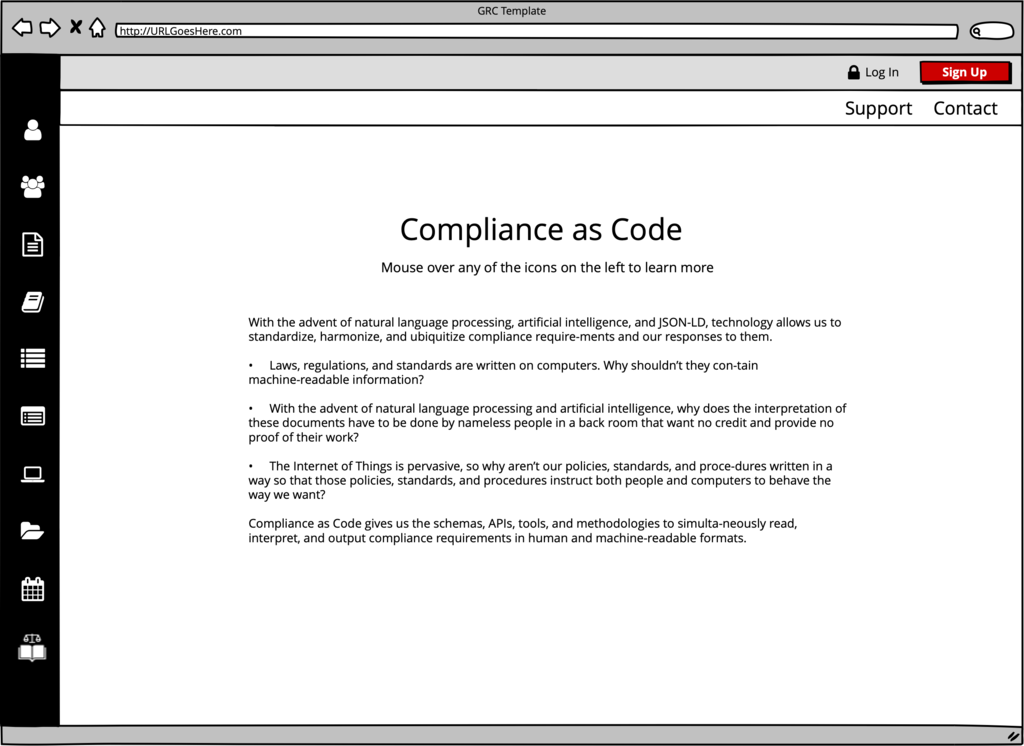
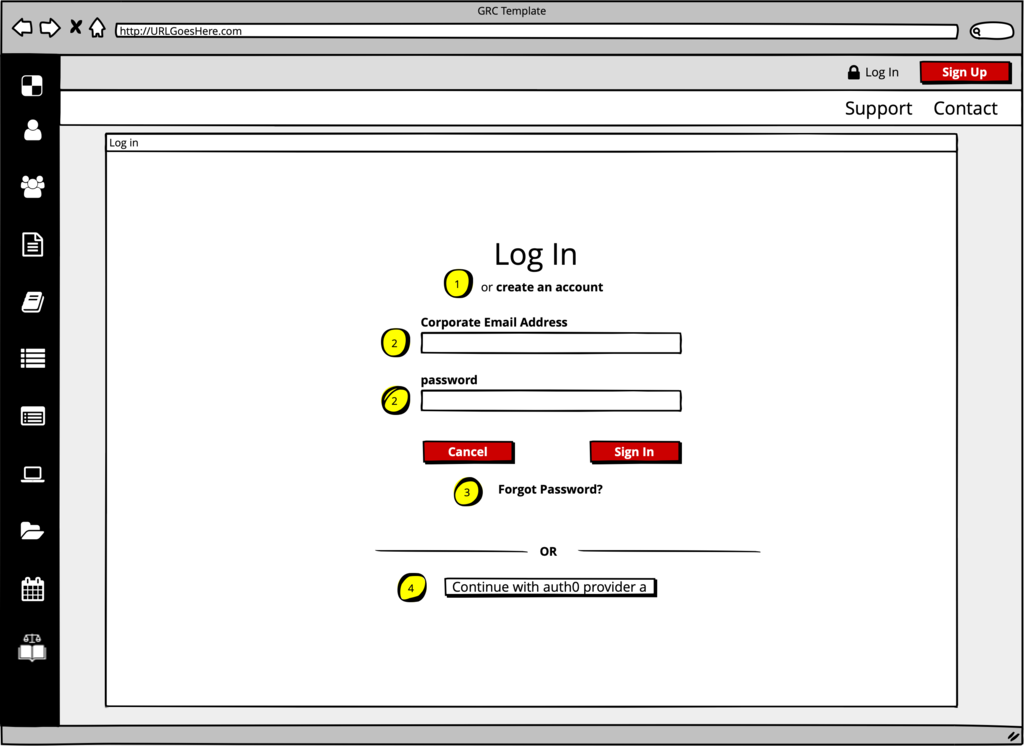
GitBook: [master] 50 pages and 4 assets modified

diff --git a/the-elements-of-compliance-for-developers/introduction/log-in.md b/the-elements-of-compliance-for-developers/introduction/log-in.md
@@ -1,0 +1,31 @@
+# Log In
+
+The public sharing for these wireframes is:
+
+[https://balsamiq.cloud/srj76i4/ptmjb2b](https://balsamiq.cloud/srj76i4/ptmjb2b)
+
+While these are designed here in Balsamiq, we highly suggest that the components be translated into Material-UI React components, found here: [https://react-material-kit.devias.io/authentication/login-unguarded](https://react-material-kit.devias.io/authentication/login-unguarded).
+
+The scope of this portion of the project is to allow known individual to sign in to the system using either an email/password combination or an Auth0 provider.
+
+The layouts expressed in this documentation are for _communication purposes only_. They are not meant to provide branding guidance or even an official look-and-feel. They exist merely to convey the technical aspects of the project. _Real_ designers will create something much more effective.
+
+The sign in screens are presented as modal dialogs and are accessed from the home page.
+
+## Log In
+
+Log In information is a combination of two screens, log in and forgot password.
+
+![Log In dialog](../../.gitbook/assets/0%20%2811%29.png)
+
+1. We present a link within the sign in dialog to allow the user to _create an account_ if necessary.
+2. The user’s sign-in, if manual, is through a _corporate_ e-mail address and associated password.
+3. We present a _forgot password_ link for the email/password combination.
+4. If the account has this option enabled, the user can sign in through an Auth0 provider.
+
+### Forgot Password
+
+If the user cannot remember their password, they can click a link, provide their email address, and _if that address exists_, can be sent an email to reset their password.
+
+![Password recovery](../../.gitbook/assets/1%20%2810%29.png)
+

diff --git a/the-elements-of-compliance-for-developers/introduction/home-page.md b/the-elements-of-compliance-for-developers/introduction/home-page.md
@@ -10,11 +10,11 @@ While these are designed here in Balsamiq, we highly suggest that the components
 
 We don’t have much for the design of the home page, other than that it should have some basic information about Compliance as Code, how to contact members of the organization, how to get support, and login/signup links.
 
-![Home page](../../.gitbook/assets/0%20%2811%29.png)
+![Home page](../../.gitbook/assets/0%20%2812%29.png)
 
 ### More Info
 
 Somehow we should communicate to those _not_ signed up, what all of the logos mean and how much _depth of information and assistance_ there is on the site. One way to possibly do this would be to have a roll-over of information available for each icon, as shown below.
 
-![More info](../../.gitbook/assets/1%20%2810%29.png)
+![More info](../../.gitbook/assets/1%20%2811%29.png)
 

diff --git a/SUMMARY.md b/SUMMARY.md
@@ -56,6 +56,7 @@
 * [Sample Application\(s\)](the-elements-of-compliance-for-developers/introduction/README.md)
   * [The Shell application](the-elements-of-compliance-for-developers/introduction/the-shell-application.md)
   * [Home Page](the-elements-of-compliance-for-developers/introduction/home-page.md)
+  * [Log In](the-elements-of-compliance-for-developers/introduction/log-in.md)
   * [Initial Sign-up sequence](the-elements-of-compliance-for-developers/introduction/initial-sign-up-sequence/README.md)
     * [Completing the Sign-up](the-elements-of-compliance-for-developers/introduction/initial-sign-up-sequence/completing-the-sign-up.md)
   * [Managing Staff](the-elements-of-compliance-for-developers/introduction/managing-staff.md)

diff --git a/the-elements-of-compliance-for-developers/introduction/initial-sign-up-sequence/README.md b/the-elements-of-compliance-for-developers/introduction/initial-sign-up-sequence/README.md
@@ -41,17 +41,7 @@ Billing contact information \(name, address, email\)
 
 Shipping information \(address\)
 
-## Welcome page
 
-An initial welcome page will be displayed, such as the one that follows. It _might_ be helpful to show the left main navigation with popovers showing prospective users what each of the icons represent and why they could be important to the user.
-
-![Graphical user interface, text, application, email
-
-Description automatically generated](../../../.gitbook/assets/1%20%283%29.png) ![Graphical user interface, text, application
-
-Description automatically generated](../../../.gitbook/assets/2%20%283%29.png)
-
-Welcome page with popovers \(right\)
 
 ## Sign-up Page 1
 
